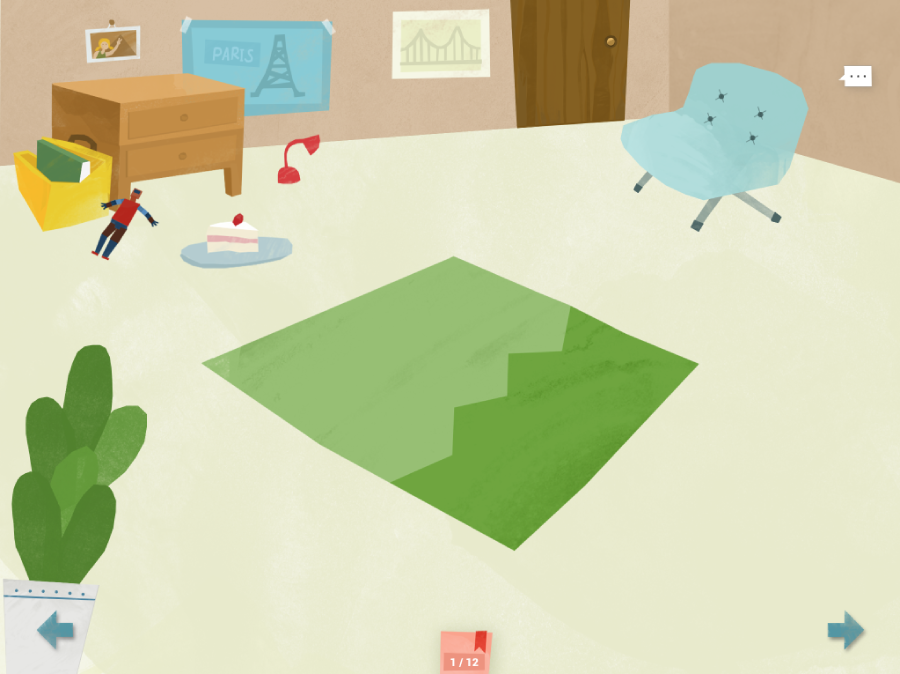
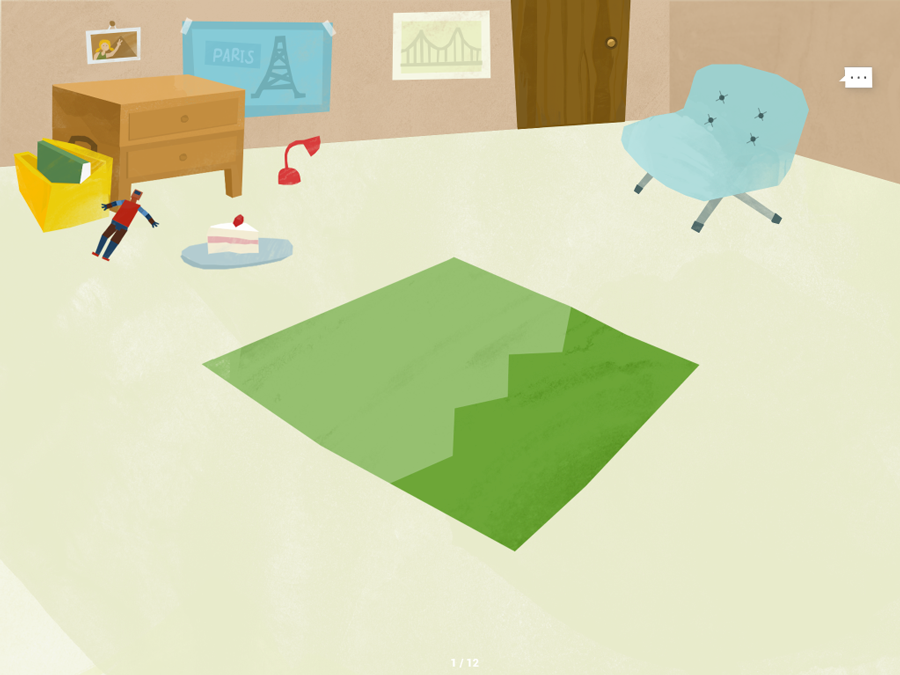
in progress
build interactivity on page one

diff --git a/css/proto-style.css b/css/proto-style.css
@@ -25,22 +25,70 @@
 	justify-content: center;
 	height: auto;
 	margin: 0 auto;
+	overflow: hidden;
 }
 .button-container{
 	position: absolute;
 	width: 200px;
-	right: 80px;
+	right: 60px;
 	bottom: 20px;
 }
-.enter-button, .about-button{
+.enter-button{
+	max-width: 180px;
+}
+.about-button{
 	max-width: 200px;
 }
 .mainpage{
 	max-width: 900px;
-	height: 95%;
-	width: 95%;
+	width: 100%;
+	height: 100%;
 	margin: 0 auto;
 }
+.coco{
+	width: 38%;
+	position: absolute;
+	left: 10px;
+	bottom: -20px;
+	animation: bounce 2s infinite ease-in-out;
+	z-index: 1;
+}
+.cards{
+	position: absolute;
+	width: 28%;
+	top: 20px;
+	left: 10px;
+}
+.nk-main-img{
+	position: absolute;
+	width: 65%;
+	bottom: 0;
+	left: 50px;
+	z-index: 0;
+}
+.bag{
+	position: absolute;
+	width: 18%;
+	top: 120px;
+	left: 25%;
+	animation: rotate 1.5s infinite;
+	animation-timing-function: ease-in-out;
+}
+.flag{
+	position: absolute;
+	width: 13%;
+	top: 150px;
+	left: 45%;
+	animation: rotate 2s infinite;
+	animation-timing-function: ease-in-out;
+}
+.title{
+	position: absolute;
+	width: 32%;
+	top: 120px;
+	right: 60px;
+}
+
 /*page-one*/
 .pre-next-btn{
 	width: 100%;
@@ -62,14 +110,102 @@
 	position: absolute;
 	margin: 0 auto;
 	top: 30%;
+	animation: rotate 2s infinite;
+	animation-timing-function: ease-in-out;
 }
 .coco-layon{
 	width: 50%;
 	position: absolute;
 	margin: 0 auto;
 	top: 40%;
+	animation: rotate 2s infinite;
+	animation-timing-function: ease-in-out;
 }
+.text-btn-container{
+	width: 100%;
+	height: 60px;
+	max-width: 860px;
+	position: absolute;
+	margin: 0 auto;
+	top: 50px;
+	display: flex;
+	justify-content: flex-end;
+	background-color: transparent;
+}
+.text-btn{
+	width: 100px;
+	hyphens: 100px;
+	background-color: transparent;
+}
+.text-box{
+	width: 30%;
+	position: absolute;
+	top: 20%;
+	left: 50%;
+}
+.main-nav{
+	width: 20%;
+	position: absolute;
+	right: -120px;
+	top: 90px;
+}
+.plant{
+	width: 20%;
+	position: absolute;
+	bottom: 0;
+	left: 0;
+	z-index: 0;
+	animation: bounce 5s infinite;
+	animation: rotate 4s infinite;
+	animation-timing-function: ease-in-out;
+}
+.pagenav{
+	position: absolute;
+	width: 60%;
+	bottom: -5px;
+}
+.pagenav-icon{
+	position: absolute;
+	width: 13%;
+	bottom: 0;
+}
+.pagenav-page{
+	font-size: 15px;
+	color: #fff;
+	font-weight: 300;
+	width: 100%;
+	height: 60px;
+	max-width: 100px;
+	position: absolute;
+	margin: 0 auto;
+	bottom: -15px;
+	margin-left: -4px;
+	display: flex;
+	justify-content: center;
+}	
 /*page-one*/
+@keyframes bounce {
+  0%   { bottom: -10px; }
+  50% { bottom: 0px; }
+  100% { bottom: -10px; }
+}
+@keyframes rotate {
+   0% {
+    transform: rotate(0deg);
+  }
+  50% {
+    transform: rotate(5deg);
+  }
+  100% {
+    transform: rotate(0deg);
+  }
+}
+.pre-next-btn-img{
+	position: absolute;
+	width: 93%;
+	bottom: 12px;
+}
+
 @media screen and (max-width: 950px){
 .mainpage{
 	max-width: 700px;
@@ -85,6 +221,10 @@
 .pre-next-btn{
 	max-width: 95%;
 }
+.pagenav-page{
+	font-size: 13px;
+	bottom: -23px;
+}
 }
 @media screen and (max-width: 670px){
 .button-container{
@@ -94,12 +234,21 @@
 .enter-button, .about-button{
 	max-width: 130px;
 }
+.pagenav-page{
+	font-size: 11px;
+	bottom: -29px;
+}
 }
 @media screen and (max-width: 414px){
 .button-container{
 	max-width: 100px;
 	right: 20px;
 	bottom: 10px;
+}
+.pagenav-page{
+	font-size: 8px;
+	bottom: -40px;
+	margin-left: -2px;
 }
 .enter-button, .about-button{
 	max-width: 70px;

diff --git a/page-one.html b/page-one.html
@@ -6,11 +6,14 @@
 <link rel="stylesheet" href="css/style.css">
 <link rel="stylesheet" href="css/proto-style.css">
 <link href="https://fonts.googleapis.com/css?family=Roboto:100,200,300,400" rel="stylesheet">
+<link rel="icon" type="image/png" href="images/nk-icon.png">
+<link rel="shortcut icon" href="images/nk-icon.ico">
 <script type="text/javascript" src="javascript/jquery-1.10.2.min.js"></script>	
 <script type="text/javascript" src="javascript/script.js"></script>
 
 <script>
     $(document).ready(function(){
+        //main-character
         $(".coco-layon").hide();
         $(".coco-layback").click(function(){
             $(".coco-layback").hide();
@@ -20,9 +23,23 @@
             $(".coco-layback").show();
         });
         });
+        //text-box
+        $(".text-box").hide();
+        $(".text-btn").click(function(){
+            $(".text-box").toggle();
+        });
+
+        $(".main-nav").click(function(){
+            $('.main-nav').animate({right: "0"}, 1000);
+        });
+        
+        $(".pagenav").hide();
+        $(".pagenav-icon").click(function(){
+            $(".pagenav").toggle();
+        });
+    
     });
 </script>
-
 </head>
 
 <body>
@@ -37,6 +54,20 @@
             <img class="mainpage" src="images/page-one.png">
             <img class="coco-layback" src="images/coco-layback.png">
             <img class="coco-layon" src="images/coco-lay-on-stomach.png">
+            <img class="text-box" src="images/p-1-textbox.png">
+            <img class="main-nav" src="images/mainnav.png">  
+            <img class="plant" src="images/plant.png"> 
+            <img class="pre-next-btn-img" src="images/pre-next-btn.png">  
+            <img class="pagenav" src="images/pagenav.png"> 
+            <img class="pagenav-icon" src="images/pagenav-icon.png"> 
+    
+    <div class="pagenav-page">
+    <p>1/12</p>
+    </div><!--pagenav-page-->           
+
+    <div class="text-btn-container">
+        <div class="text-btn"></div>
+    </div>
 
     <div class="pre-next-btn">
         <a href="proto.html"><div class="pre"></div></a>

diff --git a/proto.html b/proto.html
@@ -8,7 +8,8 @@
 <link href="https://fonts.googleapis.com/css?family=Roboto:100,200,300,400" rel="stylesheet">
 <script type="text/javascript" src="javascript/jquery-1.10.2.min.js"></script>	
 <script type="text/javascript" src="javascript/script.js"></script>
-
+<link rel="icon" type="image/png" href="images/nk-icon.png">
+<link rel="shortcut icon" href="images/nk-icon.ico">
 </head>
 
 <body>
@@ -21,6 +22,13 @@
     <div class="container">
         <div class="image-box">
             <img class="mainpage" src="images/mainpage.png">
+             <img class="coco" src="images/coco.png">
+             <img class="cards" src="images/cards.png">
+             <img class="nk-main-img" src="images/north-korea.png">
+             <img class="bag" src="images/bag.png">
+             <img class="flag" src="images/flag.png">
+             <img class="title" src="images/title.png">
+
             <div class="button-container">
             <a href="about-page.html"><img class="about-button" src="images/aboutbutton.png"></a>
             <a href="page-one.html"><img class="enter-button" src="images/enterbutton.png"></a>

diff --git a/index.html b/index.html
@@ -7,6 +7,8 @@
 <link href="https://fonts.googleapis.com/css?family=Roboto:100,200,300,400" rel="stylesheet">
 <script type="text/javascript" src="javascript/jquery-1.10.2.min.js"></script>	
 <script type="text/javascript" src="javascript/script.js"></script>
+<link rel="icon" type="image/png" href="images/nk-icon.png">
+<link rel="shortcut icon" href="images/nk-icon.ico">
 </head>
 
 <body>

diff --git a/css/style.css b/css/style.css
@@ -7,6 +7,9 @@ body{
 	color:#444;
 
 }
+button{
+	outline: none;
+}
 #page1{
 	position:relative;
 	width:100%;
